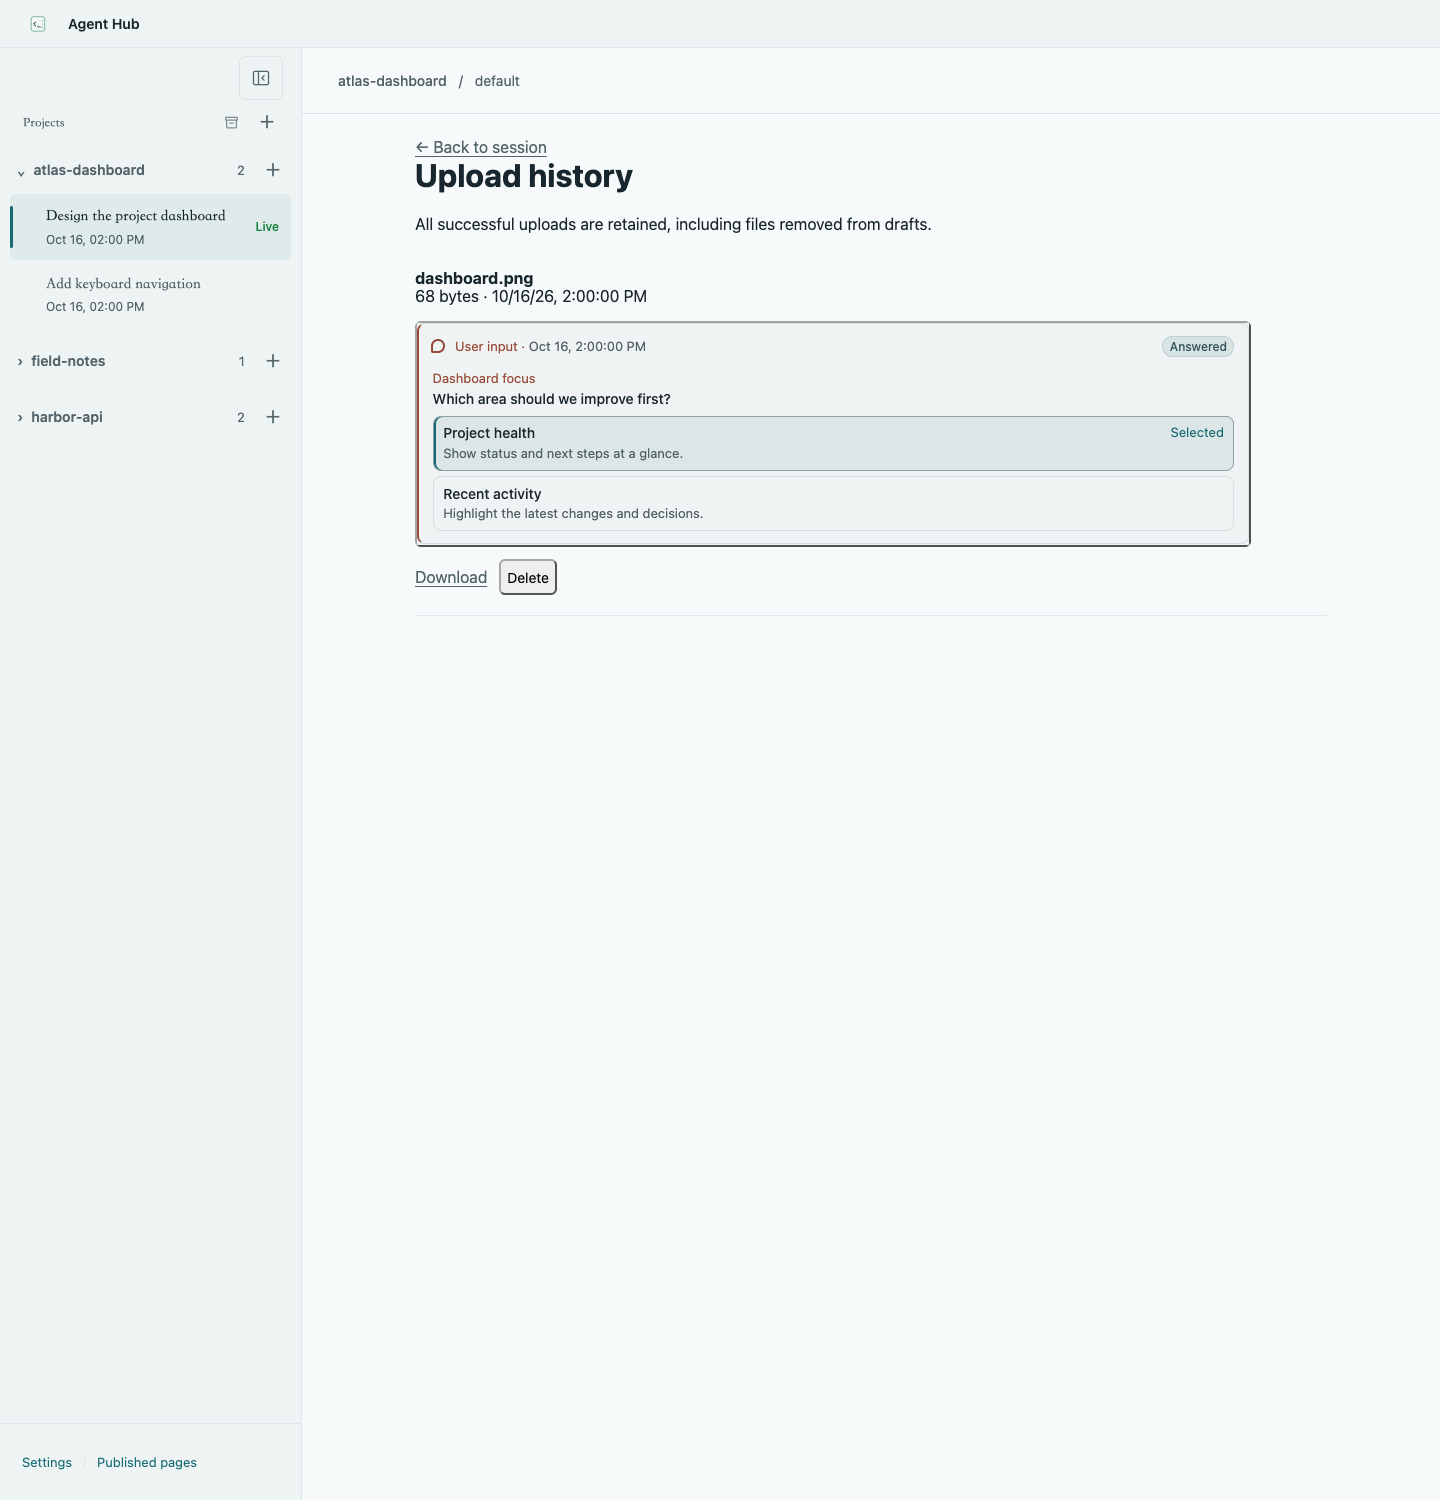
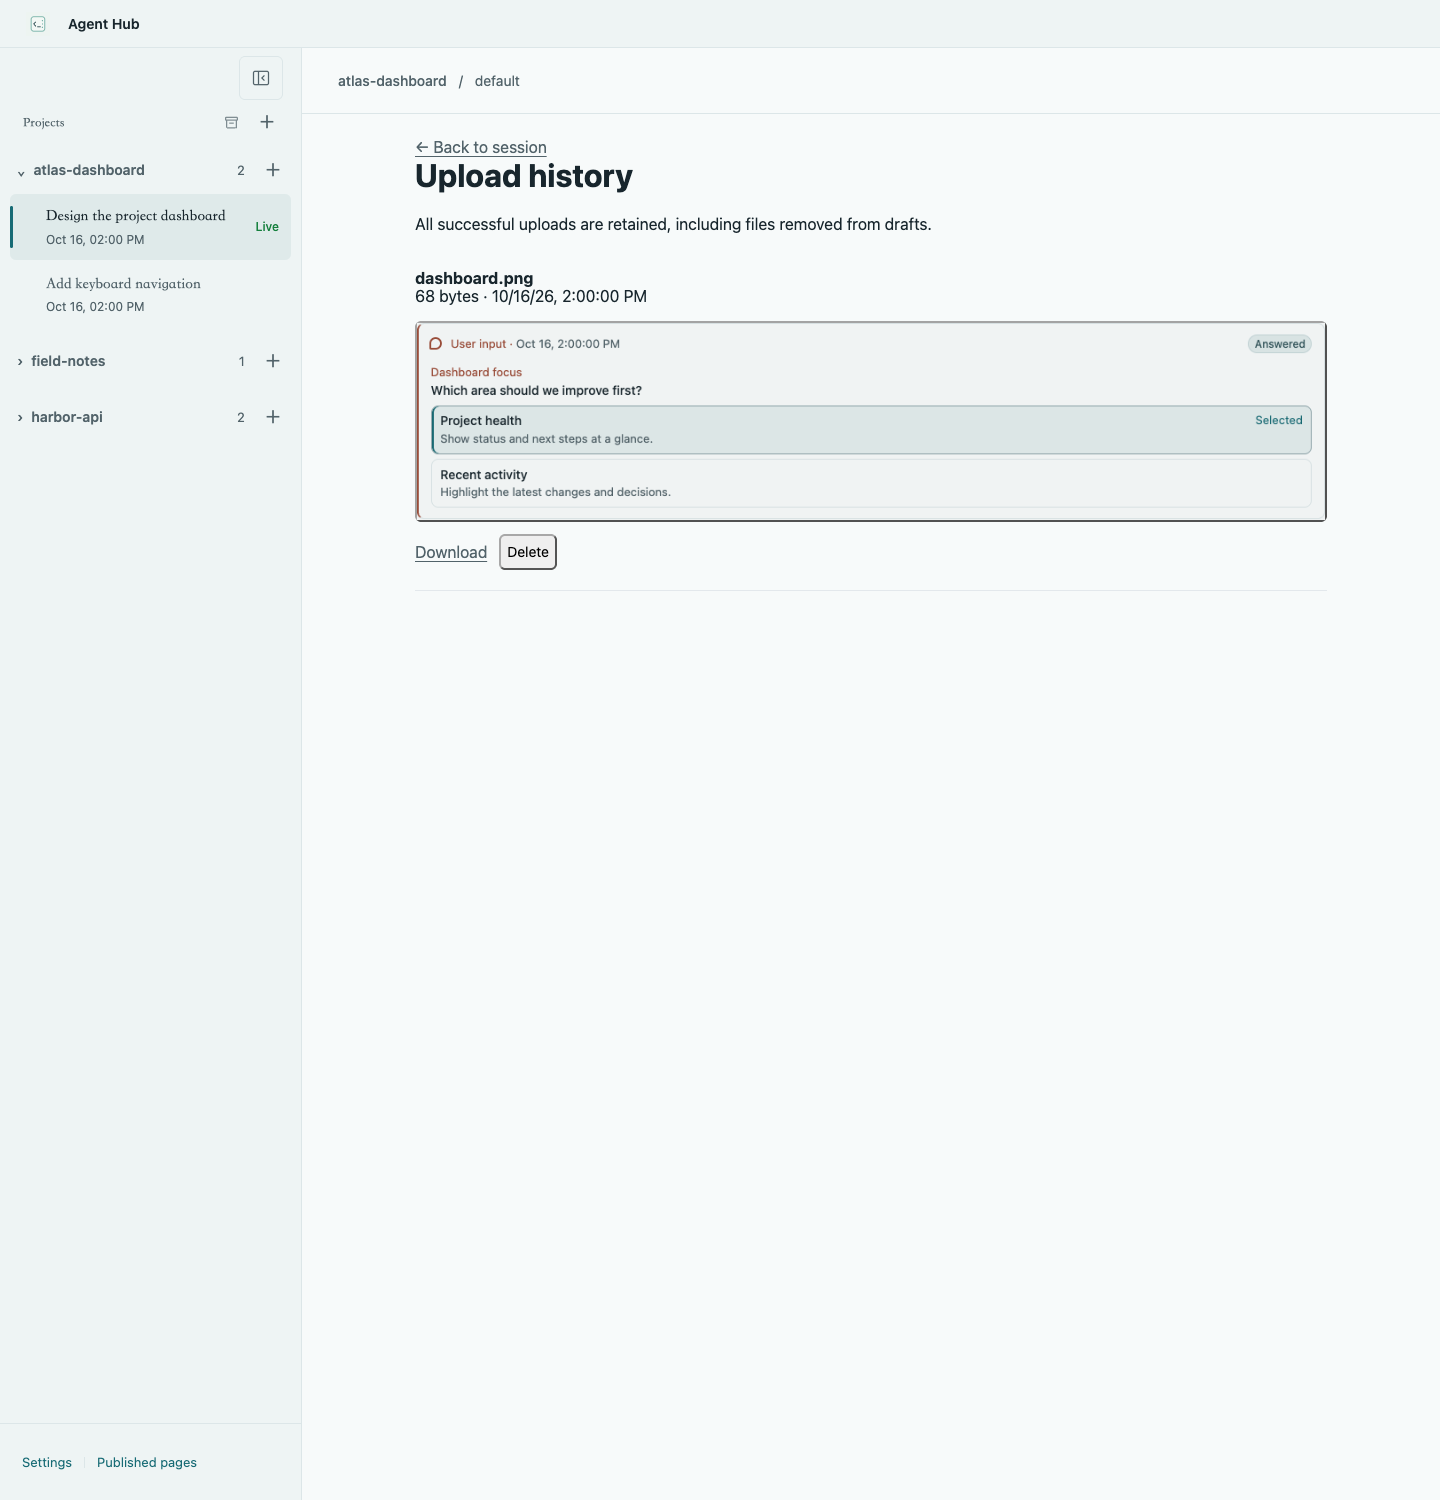
Refine blockquote inline code and align session reader widths (#245)

Changed region(s): [[0.2812, 0.2147, 0.875, 0.3987], [0.8125, 0.2147, 0.9375, 0.3067]]

diff --git a/src/client/styles/reader.css b/src/client/styles/reader.css
@@ -52,7 +52,7 @@ body:has(.session-layout) {
   display: none;
 }
 .interaction-dock .interaction-region {
-  max-width: 52rem;
+  max-width: var(--interaction-max-width);
 }
 @media (width < 768px) {
   .interaction-dock {
@@ -87,9 +87,10 @@ body:has(.session-layout) {
   letter-spacing: normal;
 }
 .reader {
+  --reader-inline-padding: clamp(1rem, 2.5vw, 2rem);
   width: 100%;
-  max-width: 72rem;
-  padding: 1.5rem clamp(1rem, 2.5vw, 2rem) 2rem;
+  max-width: calc(var(--reader-max-width) + var(--reader-inline-padding) * 2);
+  padding: 1.5rem var(--reader-inline-padding) 2rem;
 }
 .reader-header {
   display: flex;
@@ -262,7 +263,8 @@ body:has(.session-layout) {
 }
 @media (width < 768px) {
   .reader {
-    padding: 16px 12px 12px;
+    --reader-inline-padding: 12px;
+    padding: 16px var(--reader-inline-padding) 12px;
   }
   .session-metadata {
     gap: var(--space-small);

diff --git a/src/client/styles/typography.css b/src/client/styles/typography.css
@@ -91,6 +91,11 @@
     background: var(--code-surface);
   }
 
+  .message-body blockquote :not(pre) > code {
+    background: color-mix(in srgb, var(--ink) 6%, transparent);
+    border-color: color-mix(in srgb, var(--ink) 12%, transparent);
+  }
+
   @media (max-width: 720px) {
     .message-body h2 {
       font-size: 1.4375rem;

diff --git a/src/client/styles/global.css b/src/client/styles/global.css
@@ -107,7 +107,7 @@ button:hover:not(:disabled, [aria-disabled="true"]) {
 .error-state,
 .continuity-notice,
 .interaction-error {
-  max-width: 52rem;
+  max-width: var(--reader-max-width);
   overflow-wrap: anywhere;
   border: 1px solid var(--error-border);
   border-radius: var(--radius-control);

diff --git a/src/client/styles/hub.css b/src/client/styles/hub.css
@@ -313,7 +313,7 @@
   display: none;
 }
 .hub-topbar-status .session-operation-details {
-  max-width: 72rem;
+  max-width: var(--reader-max-width);
 }
 .hub-topbar-status .operation-status,
 .hub-topbar-status .interaction-error {

diff --git a/src/client/styles/tokens.css b/src/client/styles/tokens.css
@@ -30,6 +30,8 @@
   --space-small: 0.5rem;
   --space-medium: 1rem;
   --space-large: 1.5rem;
+  --reader-max-width: 64rem;
+  --interaction-max-width: 60rem;
   --surface: #fff;
   --current-hover: #105d66;
 

diff --git a/src/client/styles/interaction.css b/src/client/styles/interaction.css
@@ -109,7 +109,7 @@
   text-underline-offset: 3px;
 }
 .interaction-flow {
-  max-width: 52rem;
+  max-width: var(--interaction-max-width);
   margin-top: 0.75rem;
 }
 .interaction-toolbar {

diff --git a/src/client/styles/events.css b/src/client/styles/events.css
@@ -37,7 +37,7 @@
 .trace-event article {
   min-width: 0;
   width: 100%;
-  max-width: 52rem;
+  max-width: var(--reader-max-width);
 }
 .trace-event article > p {
   line-height: 1.72;
